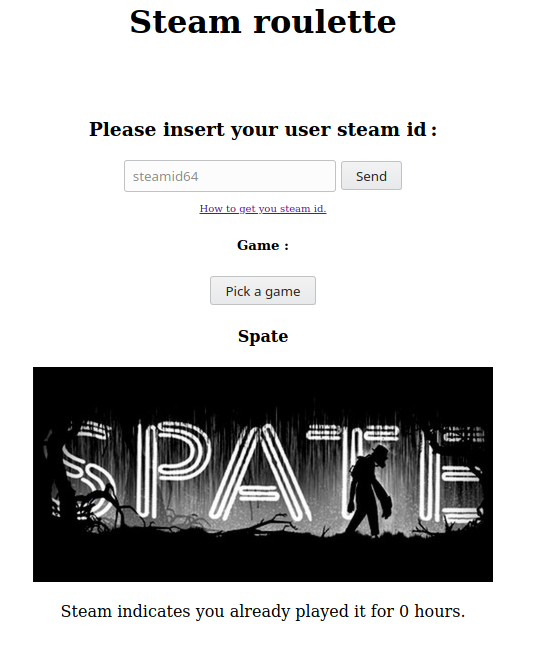
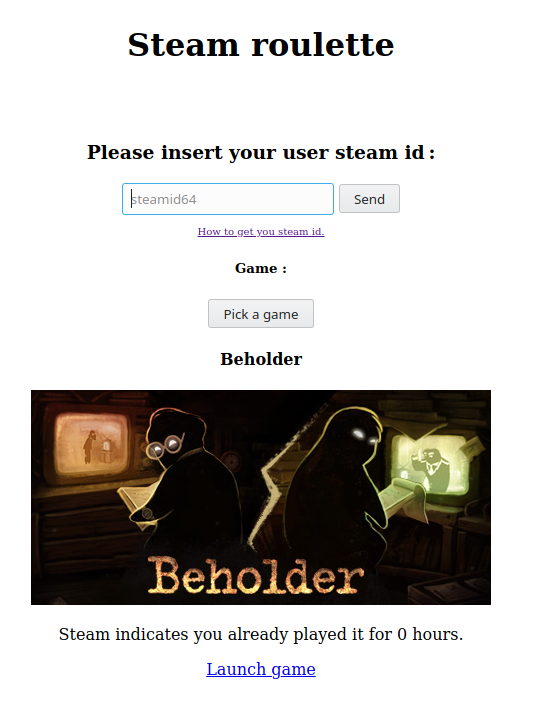
README.md : update launch button.

diff --git a/example.php b/example.php
@@ -15,7 +15,6 @@ error_reporting(E_ALL);
 
 require_once dirname(__FILE__) . '/roulette.php';
 
-// todo : tutorial about installing and using it.
 // todo : remake the pickgame working onload (broke for embedding)
 
 /*

diff --git a/README.md b/README.md
@@ -62,6 +62,11 @@ Place your steam id in the field, then click on « Send ».
 If the game does not satisfies you, click on the button « Pick a game » until you find the perfect
 one :=).
 
+Once you have your game, just click on the button Launch game. It will launch the game automatically
+if you have it or will download it.
+
+Enjoy :D
+
 ## License
 
 License Apache 2.0
